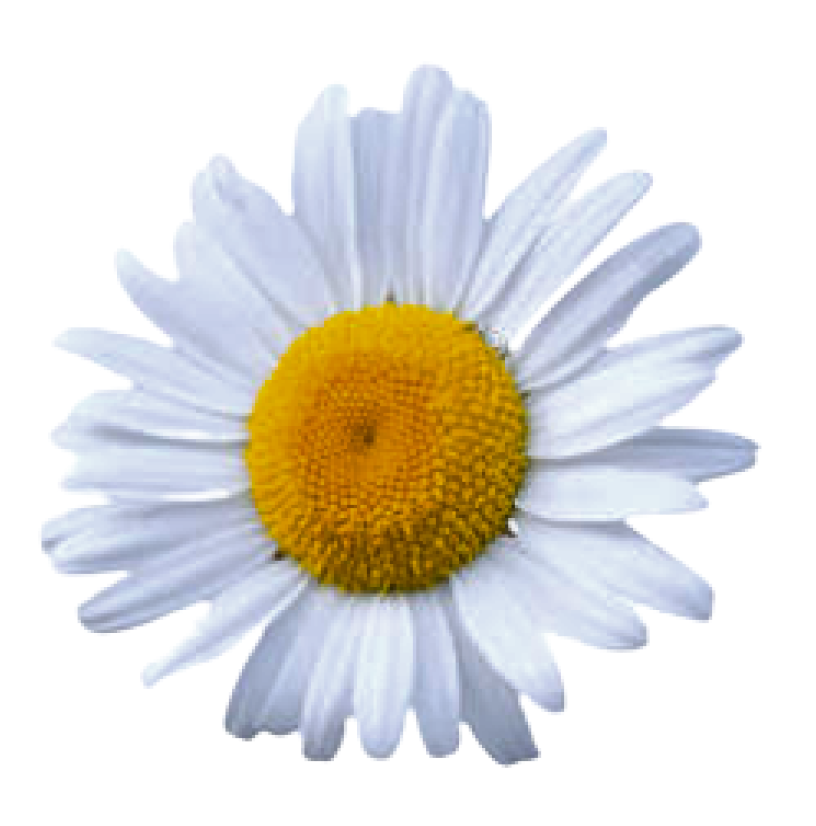
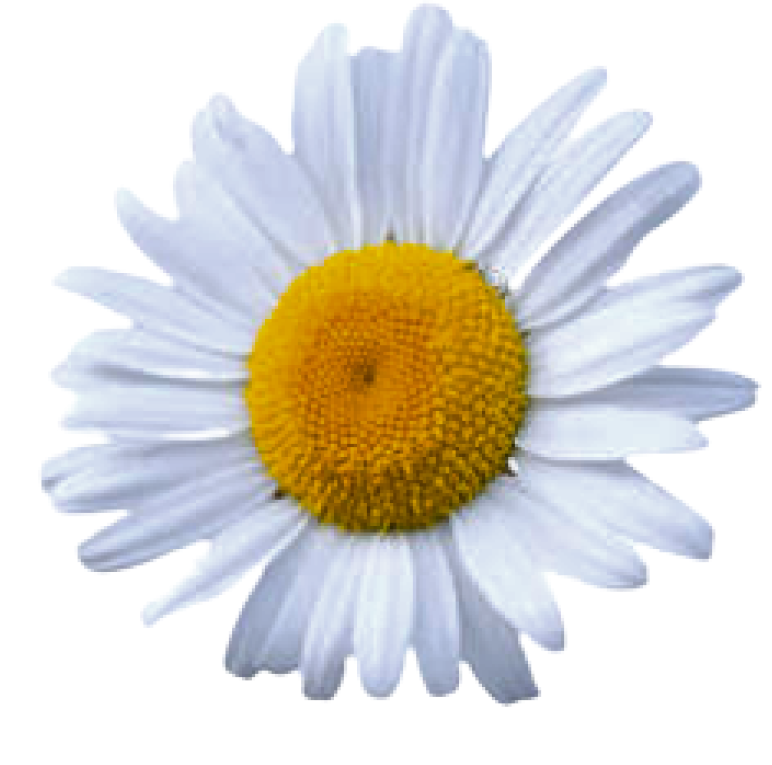
spinning button!

Changed region(s): [[0.0311, 0.0, 0.9948, 0.932], [0.2176, 0.2405, 0.2487, 0.2706]]

diff --git a/main.js b/main.js
@@ -43,12 +43,12 @@ $(function() {
    if (navigator.share) {
      navigator.share({
          title: 'Web Share API Draft',
-         text: 'Take a look at this spec!',
+         text: 'fun site that gives you shitty advices:',
          url: 'https://wicg.github.io/web-share/#share-method',
        })
-       .then(() => console.log('Successful share'))
-       .catch((error) => console.log('Error sharing', error));
+       .then(() => console.log('thanks for sharing:)'))
+       .catch((error) => console.log('shoot! something went wrong :(', error));
    } else {
-     console.log('Share not supported on this browser, do it the old way.');
+     console.log('rejected by your browser, but you can still share it the old way.');
    }
  });

diff --git a/content.html b/content.html
@@ -22,7 +22,7 @@
         </div>
 
         <div class="constant">
-            <div class="flower" id="flowerbutton"><img class='button img_flower' src="iPhone 13/flower.png" onclick='rotateMe(this);'></div>
+            <div class="flower" id="flowerbutton"><img class='button img_flower' src="iPhone 13/flower.png";></div>
             <div class="copy3 right">* tap on the flower (<span class="green">again</span>), if you need another one</div>
         </div>
 

diff --git a/style.css b/style.css
@@ -238,7 +238,15 @@ body {
     display: inline-block;
     padding-left: 20%;
     transform: scale(1.1);
+    transform: rotate(360deg);
+    transition: transform 0.5s;
 }
+
+.flower:active {
+    transform: rotate(0deg);
+    transition:  0s;
+}
+
 
 .img_flower {
     width: 60vw
